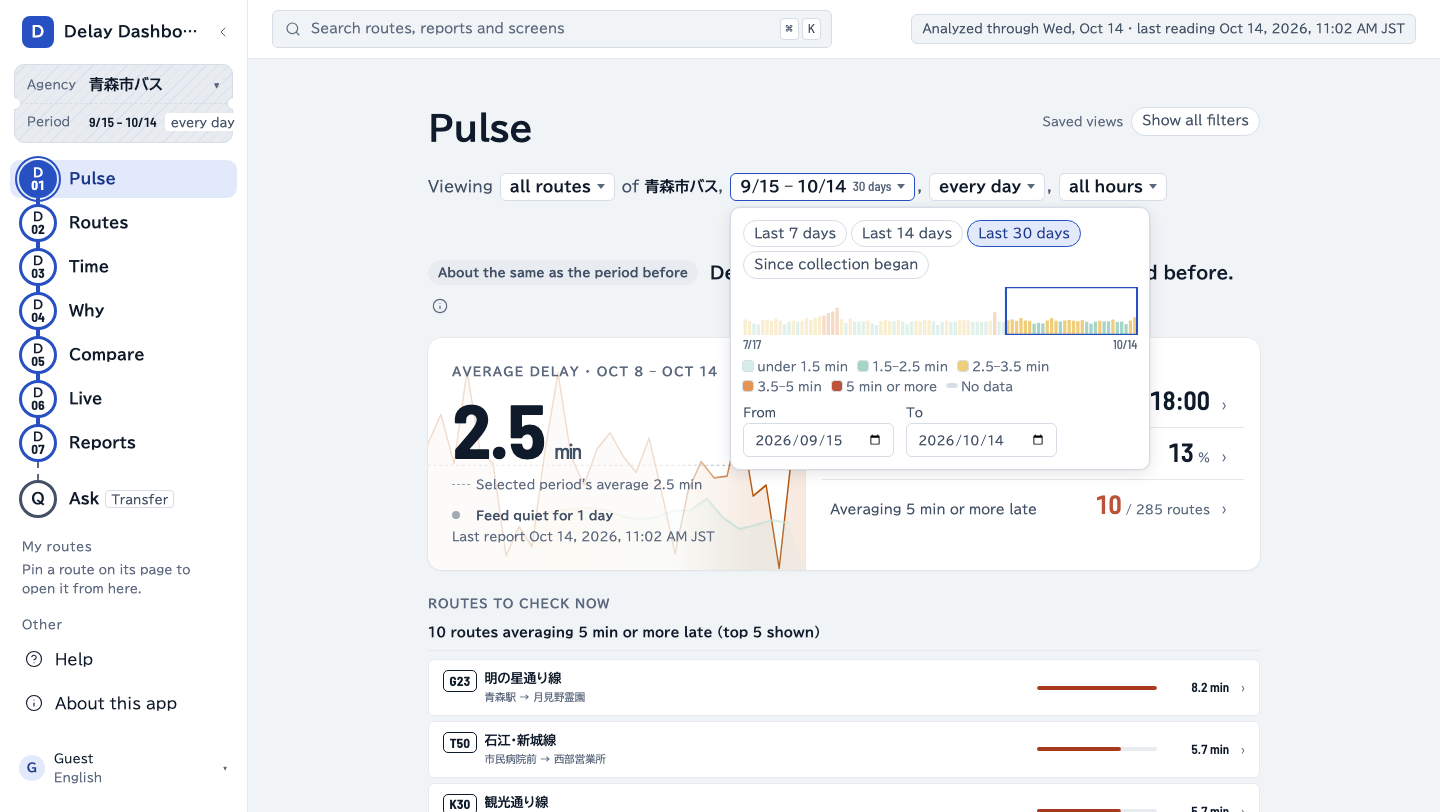
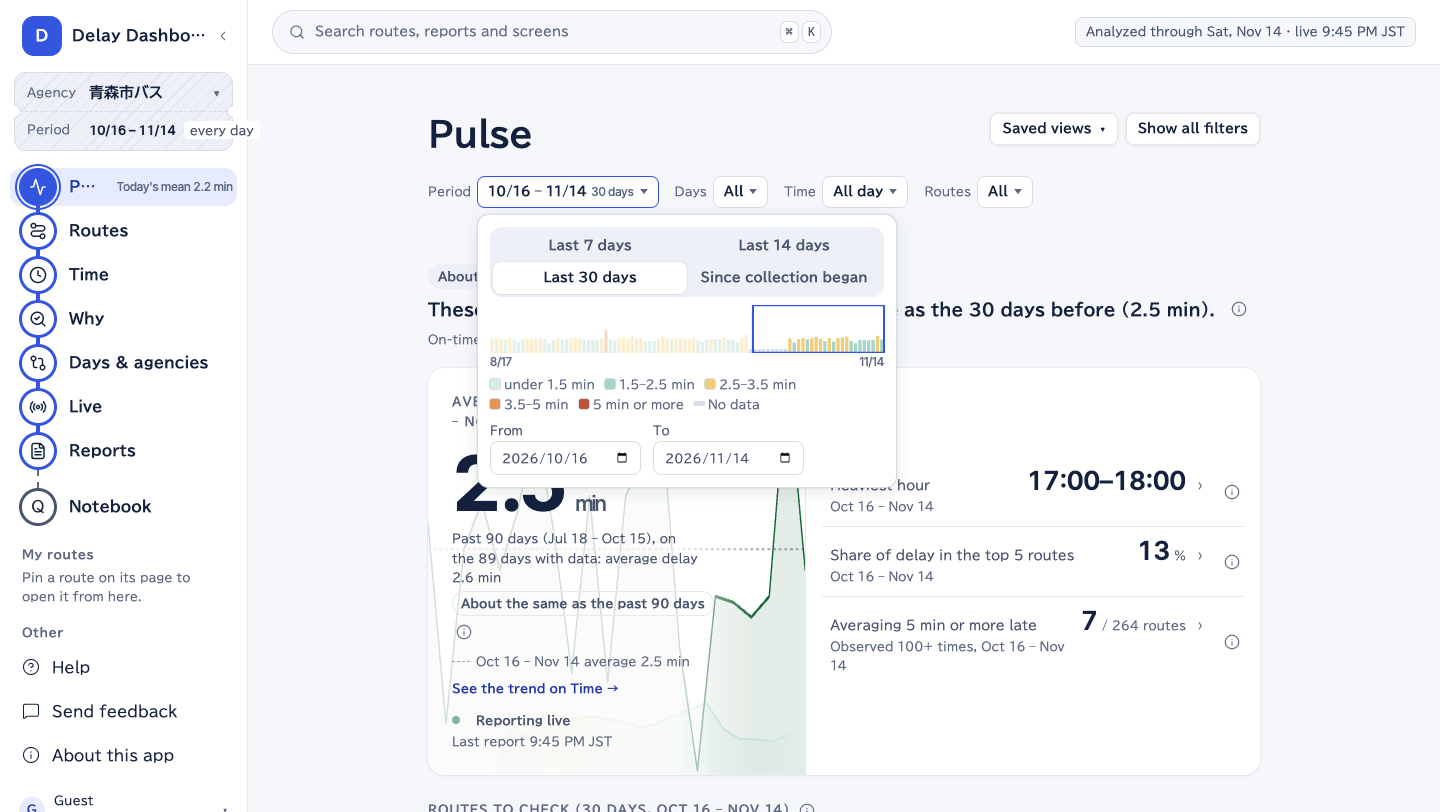
docs(scope): chapter 3's screenshot shows the bar; the route forecast sets the shared route
The forecast's own route picker reads and sets the shared routes
condition, so the feature doc no longer says nothing on it reads the
scope, and its docstring drops the Filters bar it no longer has.

diff --git a/frontend/src/components/RouteForecastSection.tsx b/frontend/src/components/RouteForecastSection.tsx
@@ -10,8 +10,8 @@
  * ctx.routes itself, no props needed beyond `aid`). Migrated from the former
  * ForecastTab.tsx; picking a route updates the shared ctx.routes filter, so
  * it also filters every other report type/tab — a deliberate, shared-filter
- * consequence, not a bug. The section's route picker is the way back to all
- * routes, as is clearing the route chip in the shared Filters bar.
+ * consequence, not a bug. The section has no scope bar, so its route picker
+ * is the way back to all routes.
  */
 import { useState } from "react";
 import { useTranslation } from "react-i18next";

diff --git a/docs/features/analysis-tab.md b/docs/features/analysis-tab.md
@@ -455,8 +455,9 @@ the same bar and controls:
 | Day types & agencies ▸ Agencies | The URL's | The endpoint's `scope_applied`, and `BOARD_SCOPE_APPLIED` (the period alone) until it answers | No |
 | Notebook | The open thread's `filter_ctx` (`source`), seeded from the URL's for a new thread | `THREAD_SCOPE_APPLIED` (`tabs/ask/filterCtx.ts`): the period, days, time band, timetable and routes, the conditions a thread stores | No |
 
-The route forecast and the delay certificate have no bar: each picks its
-own day or route, and nothing on them reads the scope.
+The route forecast and the delay certificate have no bar. The forecast's
+own route picker reads and sets the shared `routes` condition, and no other
+condition reaches it; the certificate picks its own route and departure.
 
 `source` swaps the URL's scope for another one and its writer.
 `actions={false}` leaves out the saved views and the pin, which hold and lay
